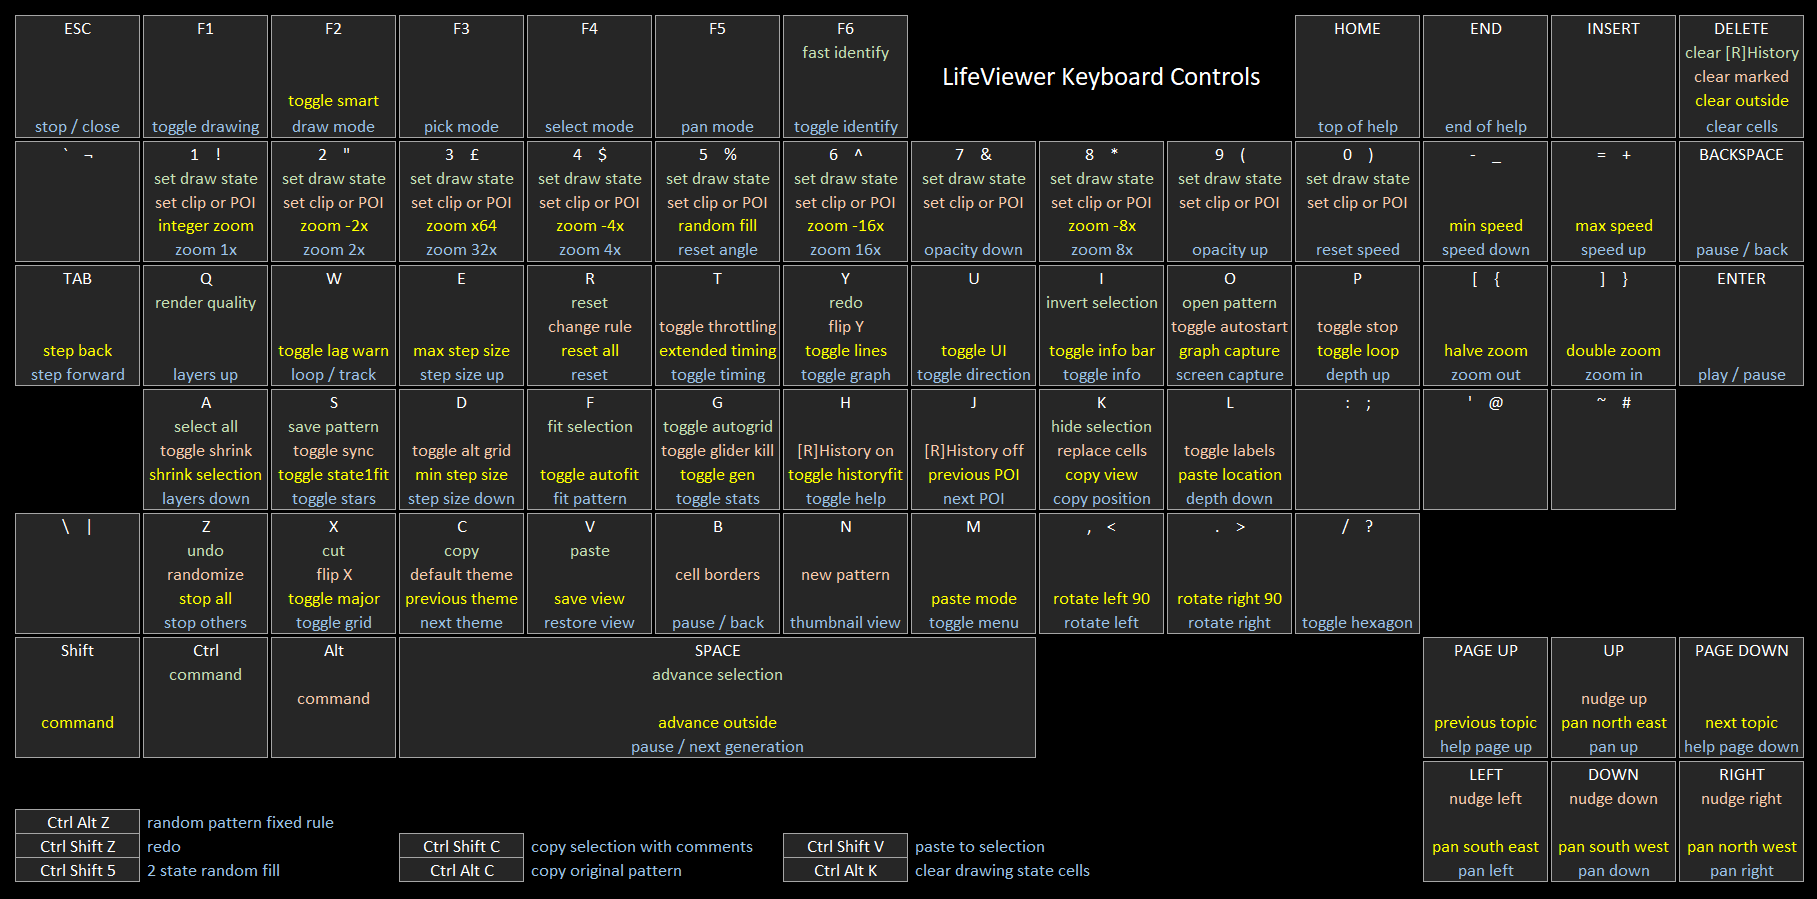
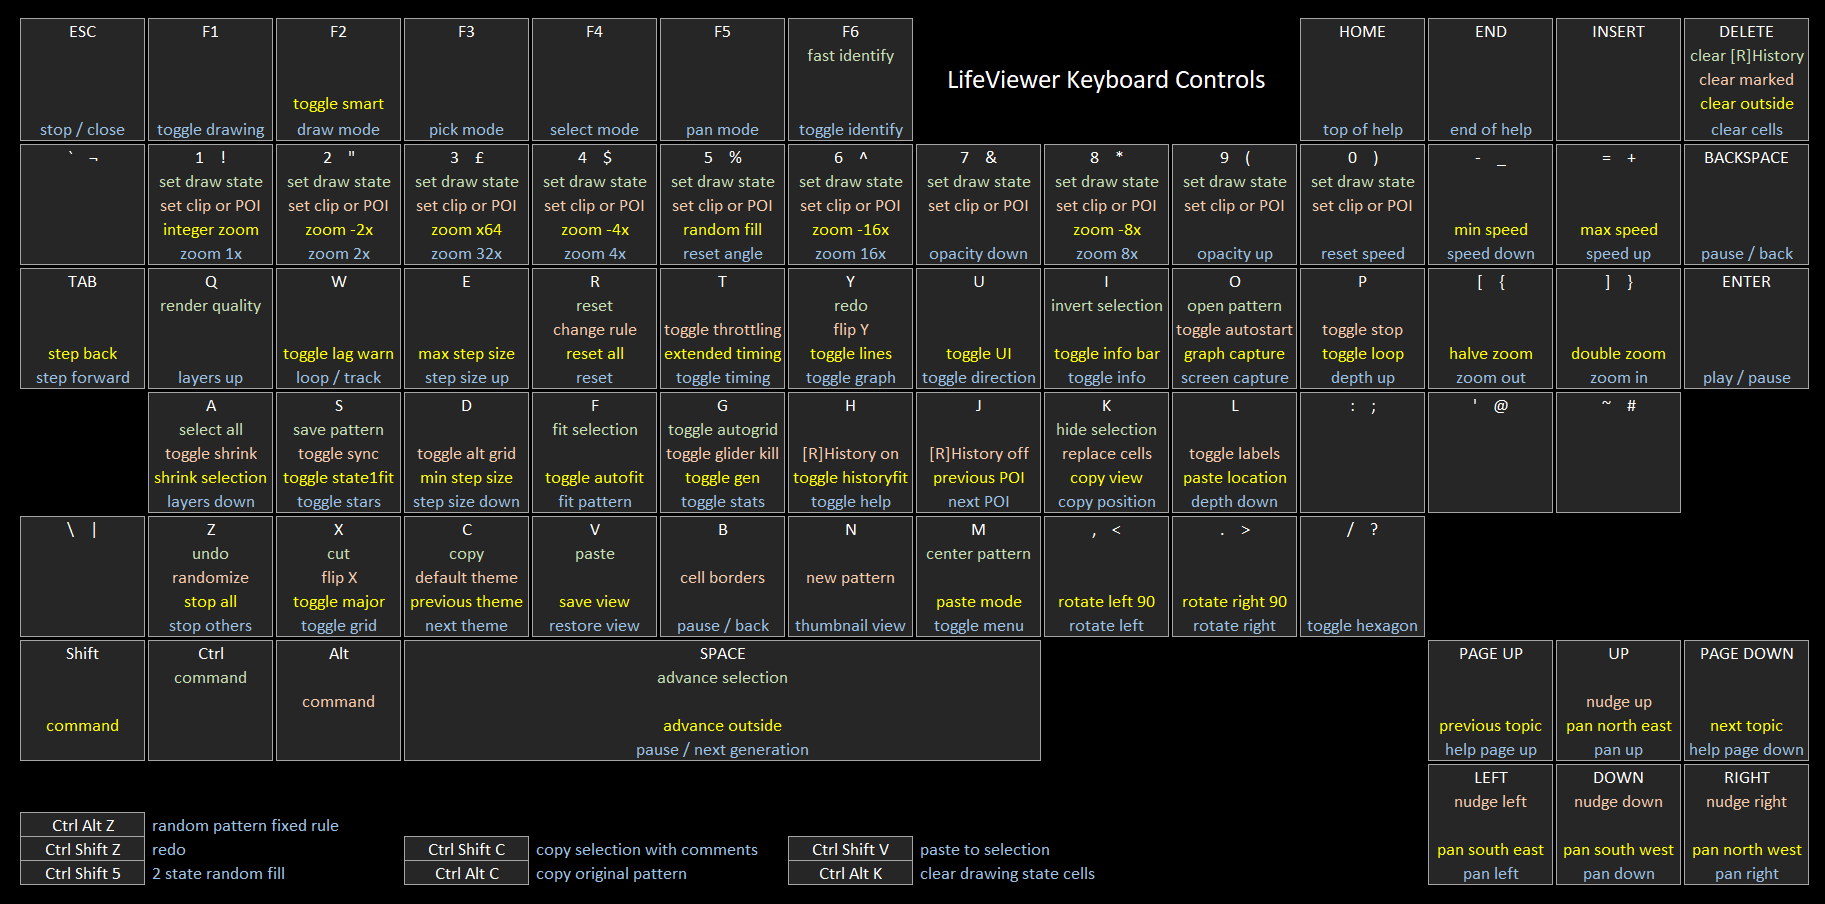
added [[ RANDOMIZE ]] command, attempted to fix ignored touch events on iPad

diff --git a/js/help.js b/js/help.js
@@ -1168,6 +1168,7 @@
 		view.helpSections[sectionNum] = [view.lineNo, "Randomize"];
 		sectionNum += 1;
 		y = this.renderHelpLine(view, "", "Randomize:", ctx, x, y, height, helpLine);
+		y = this.renderHelpLine(view, Keywords.randomizeWord, "create random pattern", ctx, x, y, height, helpLine);
 		y = this.renderHelpLine(view, Keywords.randomSeedWord + " <string>", "set random seed", ctx, x, y, height, helpLine);
 		y = this.renderHelpLine(view, Keywords.randomWidthWord + " <" + ViewConstants.minRandomWidth + ".." + ViewConstants.maxRandomWidth + ">", "set random pattern width", ctx, x, y, height, helpLine);
 		y = this.renderHelpLine(view, Keywords.randomHeightWord + " <" + ViewConstants.minRandomHeight + ".." + ViewConstants.maxRandomHeight + ">", "set random pattern height", ctx, x, y, height, helpLine);
@@ -1181,7 +1182,7 @@
 				// TBD
 			} else {
 				if (view.engine.wolframRule === -1) {
-					y = this.renderHelpLine(view, Keywords.randomChanceWord + " <item> <0..100>", "set percentage change for <item>", ctx, x, y, height, helpLine);
+					y = this.renderHelpLine(view, Keywords.randomChanceWord + " <item> <0..100>", "set percentage chance for <item>", ctx, x, y, height, helpLine);
 					y = this.renderHelpLine(view,  " " + Keywords.allWord, "all conditions", ctx, x, y, height, helpLine);
 					y = this.renderHelpLine(view,  " " + Keywords.randomBWord, "all birth conditions", ctx, x, y, height, helpLine);
 					y = this.renderHelpLine(view,  " " + Keywords.randomSWord, "all survival conditions", ctx, x, y, height, helpLine);
@@ -1963,6 +1964,7 @@
 		view.helpSections[sectionNum] = [view.lineNo, "Randomize"];
 		sectionNum += 1;
 		y = this.renderHelpLine(view, "", "Randomize:", ctx, x, y, height, helpLine);
+		y = this.renderHelpLine(view, "Pattern", view.randomizePattern ? "On" : "Off", ctx, x, y, height, helpLine);
 		y = this.renderHelpLine(view, "Custom Seed", view.randomSeedCustom ? "On" : "Off", ctx, x, y, height, helpLine);
 		y = this.renderHelpLine(view, "Seed", view.randomSeed, ctx, x, y, height, helpLine);
 		y = this.renderHelpLine(view, "Width", view.randomWidth, ctx, x, y, height, helpLine);

diff --git a/js/lifeview.js b/js/lifeview.js
@@ -280,7 +280,7 @@
 		/** @const {string} */ versionName : "LifeViewer",
 
 		// build version
-		/** @const {number} */ versionBuild : 527,
+		/** @const {number} */ versionBuild : 528,
 
 		// author
 		/** @const {string} */ versionAuthor : "Chris Rowett",
@@ -1005,6 +1005,12 @@
 		// random seed
 		this.randomSeed = Date.now().toString();
 		/** @type {boolean} */ this.randomSeedCustom = false;
+
+		// whether to randomize pattern
+		/** @type {boolean} */ this.randomizePattern = false;
+
+		// whether randomize pattern in progress
+		/** @type {boolean} */ this.randomizeGuard = false;
 
 		// current help topic
 		/** @type {number} */ this.helpTopic = ViewConstants.welcomeTopic;
@@ -9098,7 +9104,7 @@
 		patternText += me.engine.afterTitle;
 
 		// check whether prompt required
-		if (me.undoButton.locked) {
+		if (me.undoButton.locked || me.randomGuard) {
 			result = true;
 		} else {
 			result = window.confirm("Create new random pattern?");
@@ -13433,6 +13439,9 @@
 		// clear custom random seed
 		this.randomSeedCustom = false;
 
+		// clear randomize pattern
+		this.randomizePattern = false;
+
 		// clear origin
 		this.engine.originX = 0;
 		this.engine.originY = 0;
@@ -15403,6 +15412,17 @@
 
 			// update play icon
 			me.setPauseIcon(me.generationOn);
+		}
+
+		// check for random pattern
+		if (me.randomizePattern) {
+			if (me.randomGuard) {
+				me.randomGuard = false;
+			} else {
+				me.randomGuard = true;
+				me.randomPattern(me, true);
+				me.randomGuard = false;
+			}
 		}
 	};
 

diff --git a/js/canvasmenu.js b/js/canvasmenu.js
@@ -2251,6 +2251,9 @@
 		// count of updates to run
 		this.updateCount = 1;
 
+		// default update count
+		this.defaultUpdateCount = 8;
+
 		// default background colour
 		this.bgCol = "black";
 		this.bgAlpha = 0.7;
@@ -3252,8 +3255,8 @@
 			// schedule update if no update scheduled
 			if (!me.updateScheduled) {
 				me.scheduleNextUpdate(me);
-				if (me.updateCount < 4) {
-					me.updateCount = 4;
+				if (me.updateCount < me.defaultUpdateCount) {
+					me.updateCount = me.defaultUpdateCount;
 				}
 			}
 		}
@@ -3428,8 +3431,8 @@
 		// schedule update if no update scheduled
 		if (!me.updateScheduled) {
 			me.scheduleNextUpdate(me);
-			if (me.updateCount < 4) {
-				me.updateCount = 4;
+			if (me.updateCount < me.defaultUpdateCount) {
+				me.updateCount = me.defaultUpdateCount;
 			}
 		}
 	};

diff --git a/js/parser.js b/js/parser.js
@@ -34,6 +34,7 @@
 			case Keywords.hexCellsWord:
 			case Keywords.squareCellsWord:
 			case Keywords.bordersWord:
+			case Keywords.randomizeWord:
 			case Keywords.randomSeedWord:
 			case Keywords.randomWidthWord:
 			case Keywords.randomHeightWord:
@@ -4470,6 +4471,14 @@
 								}
 								break;
 							}
+							break;
+
+						// randomize word
+						case Keywords.randomizeWord:
+							// read the seed
+							view.randomizePattern = true;
+
+							itemValid = true;
 							break;
 
 						// random seed

diff --git a/js/keywords.js b/js/keywords.js
@@ -109,6 +109,9 @@
 		// integer zoom
 		/** @const {string} */ integerZoomWord : "INTEGERZOOM",
 
+		// randomize pattern
+		/**@const {string} */ randomizeWord : "RANDOMIZE",
+
 		// random seed
 		/** @const {string} */ randomSeedWord : "RANDSEED",
 
